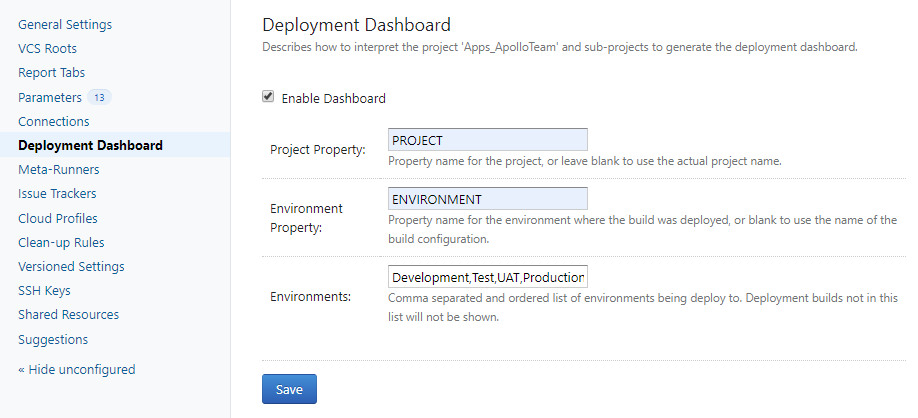
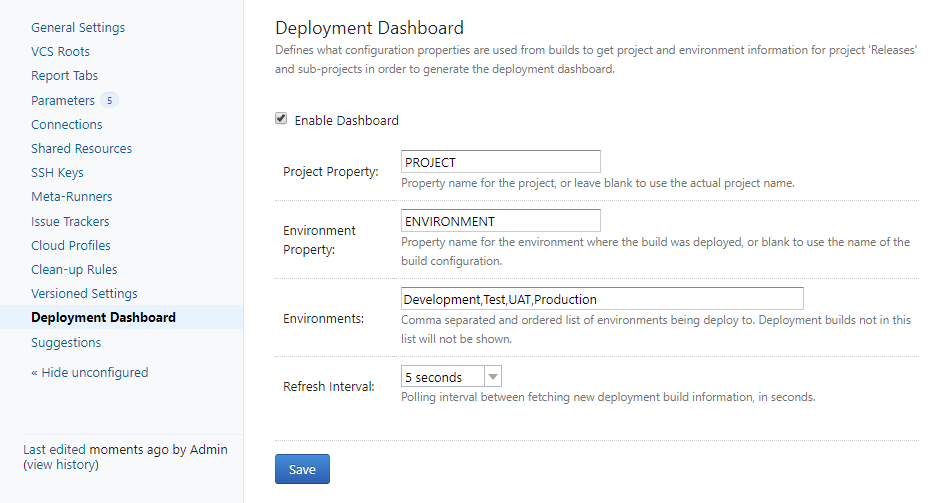
Added auto-refresh to readme with updated config screenshot

diff --git a/README.md b/README.md
@@ -16,7 +16,8 @@ level to show different environments.
 * Shows deployment version as taken from the build number.
 * Highlights the latest version to emphasise build journey to production (assuming semver-formatted
 version string).
-* Provides real-time search to quickly narrow large numbers of projects.
+* Real-time search to quickly narrow large numbers of projects.
+* Auto-refresh capability with configurable polling period.
 * Pretty.
 
 
@@ -47,7 +48,7 @@ Configuration
 
 Enabling the plugin in the configuration will show three settings.
 
-<img src="screenshot-config.png" width="918"/>
+<img src="screenshot-config.png" width="948"/>
 
 1. Project key: This is used to customise the project name shown in the dashboard and can be used
 in the case where the name of the immediate project is not appropriate. If it is appropriate, leave 
